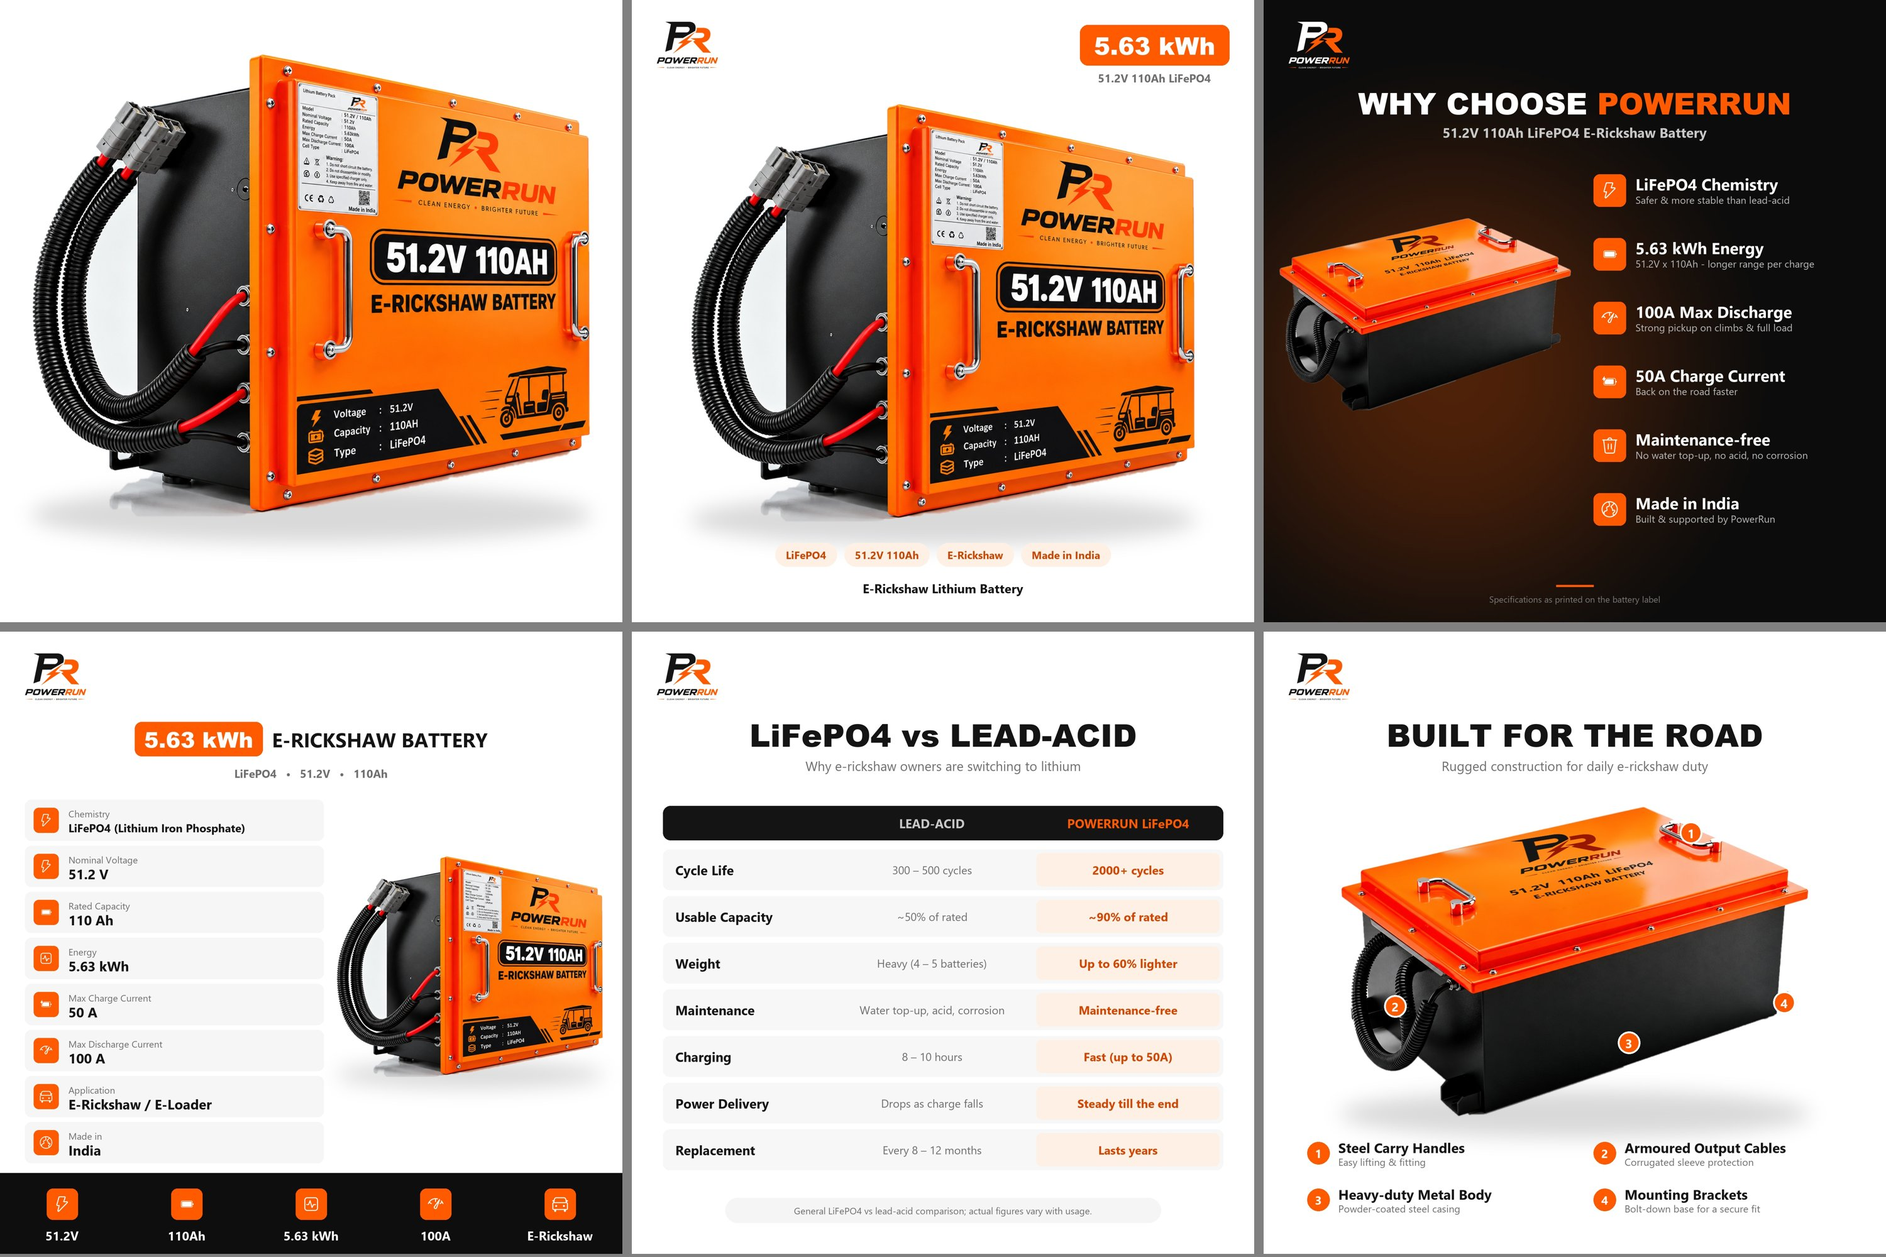
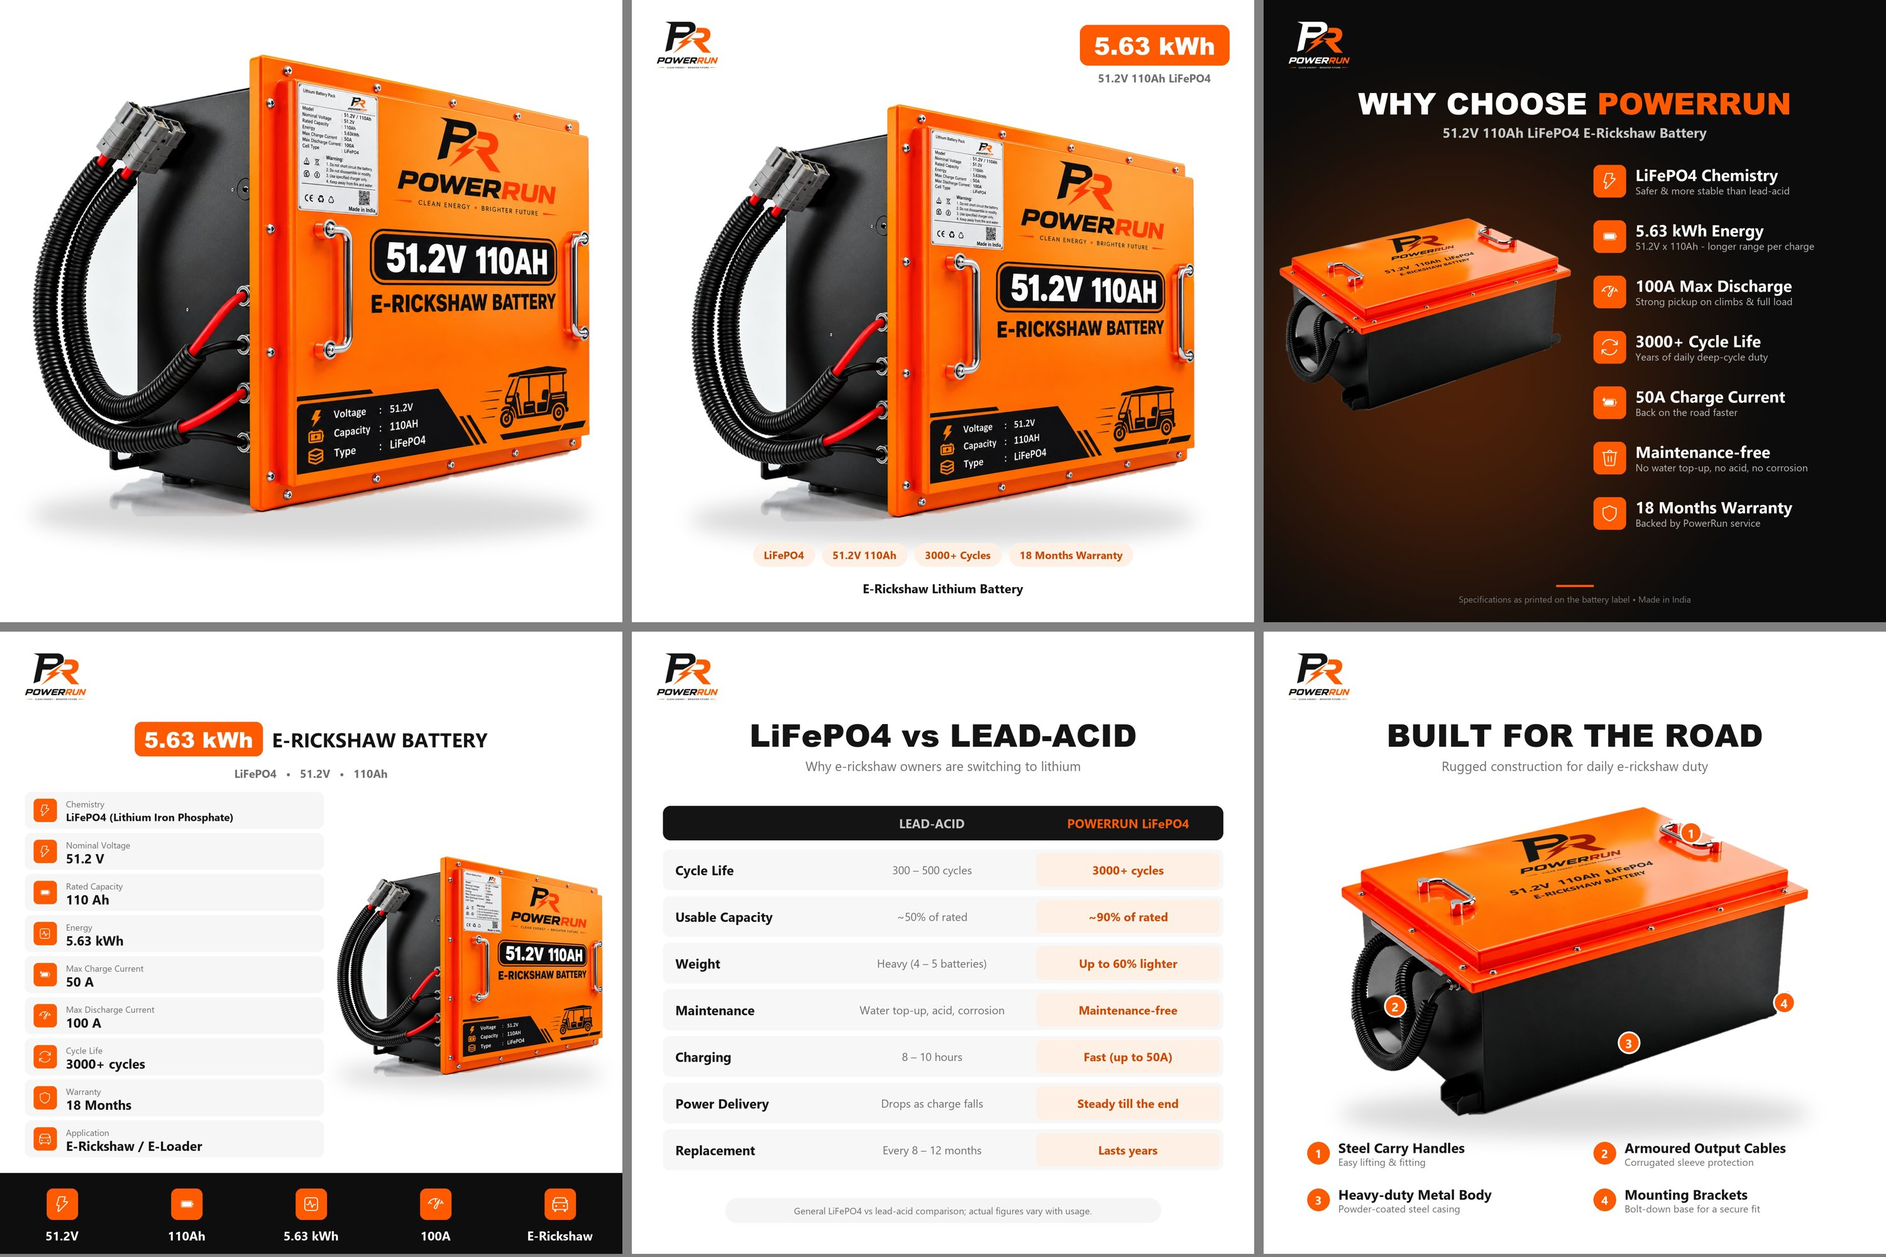
Put the e-rickshaw listing images on PR-023 (now 51.2V 110Ah)
PR-023 is renamed to 51.2V 110Ah / 5.63kWh in Supabase to match the pack's
label, its placeholder photo is replaced by the five listing images, and the
images now carry the site's own 3000+ cycle and 18-month warranty claims.
Static product page, sitemap and merchant feed rebuilt from live data (the
feed also picks up earlier description and price edits it had missed).

Changed region(s): [[0.837, 0.124, 0.961, 0.434], [0.0, 0.62, 0.124, 0.93], [0.403, 0.434, 0.589, 0.465]]

diff --git a/products/pr-e-rickshaw-battery-51-2v-100ah/index.html b/products/pr-e-rickshaw-battery-51-2v-100ah/index.html
@@ -4,25 +4,25 @@
 <meta charset="utf-8">
 <meta name="viewport" content="width=device-width,initial-scale=1">
 <!-- SEO:START -->
-<title>PowerRun 51.2V 100Ah LiFePO4 E-Rickshaw Battery | 5.12kWh Lithium Battery with Integrated BMS &amp; Charge Balancing | E-Rickshaw &amp; E-Loader Power Pack</title>
-<meta name="description" content="Buy PR E-Rickshaw Battery 51.2V 100Ah from PowerRun Industries. Deep-cycle lithium battery pack engineered for daily e-rickshaw duty. 18 Months Warranty. Pan-India delivery.">
+<title>PowerRun 51.2V 110Ah LiFePO4 E-Rickshaw Battery | 5.63kWh Lithium Battery with Integrated BMS &amp; Charge Balancing | E-Rickshaw &amp; E-Loader Power Pack</title>
+<meta name="description" content="Buy PR E-Rickshaw Battery 51.2V 110Ah from PowerRun Industries. Deep-cycle lithium battery pack engineered for daily e-rickshaw duty. 18 Months Warranty. Pan-India delivery.">
 <meta name="keywords" content="51.2v e rickshaw battery">
 <meta name="robots" content="index,follow,max-image-preview:large">
 <link rel="canonical" href="https://powerrun.in/products/pr-e-rickshaw-battery-51-2v-100ah/">
 <meta property="og:type" content="product">
 <meta property="og:locale" content="en_IN">
 <meta property="og:site_name" content="PowerRun Industries">
-<meta property="og:title" content="PowerRun 51.2V 100Ah LiFePO4 E-Rickshaw Battery | 5.12kWh Lithium Battery with Integrated BMS &amp; Charge Balancing | E-Rickshaw &amp; E-Loader Power Pack">
-<meta property="og:description" content="Buy PR E-Rickshaw Battery 51.2V 100Ah from PowerRun Industries. Deep-cycle lithium battery pack engineered for daily e-rickshaw duty. 18 Months Warranty. Pan-India delivery.">
+<meta property="og:title" content="PowerRun 51.2V 110Ah LiFePO4 E-Rickshaw Battery | 5.63kWh Lithium Battery with Integrated BMS &amp; Charge Balancing | E-Rickshaw &amp; E-Loader Power Pack">
+<meta property="og:description" content="Buy PR E-Rickshaw Battery 51.2V 110Ah from PowerRun Industries. Deep-cycle lithium battery pack engineered for daily e-rickshaw duty. 18 Months Warranty. Pan-India delivery.">
 <meta property="og:url" content="https://powerrun.in/products/pr-e-rickshaw-battery-51-2v-100ah/">
-<meta property="og:image" content="https://nnkopxkyxcmtiunftlgr.supabase.co/storage/v1/object/public/product-images/c5ddb927-9d57-456d-8c55-672d600cf3ac/1790411582201-0-placeholder.jpg">
+<meta property="og:image" content="https://nnkopxkyxcmtiunftlgr.supabase.co/storage/v1/object/public/product-images/c5ddb927-9d57-456d-8c55-672d600cf3ac/1790944489064-0-1-main.jpg">
 <meta name="twitter:card" content="summary_large_image">
-<meta name="twitter:title" content="PowerRun 51.2V 100Ah LiFePO4 E-Rickshaw Battery | 5.12kWh Lithium Battery with Integrated BMS &amp; Charge Balancing | E-Rickshaw &amp; E-Loader Power Pack">
-<meta name="twitter:description" content="Buy PR E-Rickshaw Battery 51.2V 100Ah from PowerRun Industries. Deep-cycle lithium battery pack engineered for daily e-rickshaw duty. 18 Months Warranty. Pan-India delivery.">
-<meta name="twitter:image" content="https://nnkopxkyxcmtiunftlgr.supabase.co/storage/v1/object/public/product-images/c5ddb927-9d57-456d-8c55-672d600cf3ac/1790411582201-0-placeholder.jpg">
+<meta name="twitter:title" content="PowerRun 51.2V 110Ah LiFePO4 E-Rickshaw Battery | 5.63kWh Lithium Battery with Integrated BMS &amp; Charge Balancing | E-Rickshaw &amp; E-Loader Power Pack">
+<meta name="twitter:description" content="Buy PR E-Rickshaw Battery 51.2V 110Ah from PowerRun Industries. Deep-cycle lithium battery pack engineered for daily e-rickshaw duty. 18 Months Warranty. Pan-India delivery.">
+<meta name="twitter:image" content="https://nnkopxkyxcmtiunftlgr.supabase.co/storage/v1/object/public/product-images/c5ddb927-9d57-456d-8c55-672d600cf3ac/1790944489064-0-1-main.jpg">
 <script type="application/ld+json" id="ld-organization">{"@context":"https://schema.org","@type":"Organization","@id":"https://powerrun.in/#organization","name":"PowerRun Industries","url":"https://powerrun.in/","logo":"https://powerrun.in/assets/powerrun-logo.png","email":"service@powerrun.in","telephone":"+91 87003 07676","areaServed":"IN","sameAs":["https://www.youtube.com/@PowerRunIndustries"]}</script>
-<script type="application/ld+json" id="ld-product">{"@context":"https://schema.org","@type":"Product","name":"PR E-Rickshaw Battery 51.2V 100Ah","sku":"PR-023","brand":{"@type":"Brand","name":"PowerRun Industries"},"url":"https://powerrun.in/products/pr-e-rickshaw-battery-51-2v-100ah/","description":"Buy PR E-Rickshaw Battery 51.2V 100Ah from PowerRun Industries. Deep-cycle lithium battery pack engineered for daily e-rickshaw duty. 18 Months Warranty. Pan-India delivery.","image":["https://nnkopxkyxcmtiunftlgr.supabase.co/storage/v1/object/public/product-images/c5ddb927-9d57-456d-8c55-672d600cf3ac/1790411582201-0-placeholder.jpg"],"offers":{"@type":"Offer","priceCurrency":"INR","price":"69499.0","itemCondition":"https://schema.org/NewCondition","url":"https://powerrun.in/products/pr-e-rickshaw-battery-51-2v-100ah/","availability":"https://schema.org/InStock","seller":{"@type":"Organization","name":"PowerRun Industries"},"hasMerchantReturnPolicy":{"@type":"MerchantReturnPolicy","applicableCountry":"IN","returnPolicyCategory":"https://schema.org/MerchantReturnFiniteReturnWindow","merchantReturnDays":7,"returnFees":"https://schema.org/FreeReturn","returnMethod":"https://schema.org/ReturnByMail","merchantReturnLink":"https://powerrun.in/refund-policy/"},"shippingDetails":{"@type":"OfferShippingDetails","shippingRate":{"@type":"MonetaryAmount","value":"0","currency":"INR"},"shippingDestination":{"@type":"DefinedRegion","addressCountry":"IN"},"deliveryTime":{"@type":"ShippingDeliveryTime","handlingTime":{"@type":"QuantitativeValue","minValue":1,"maxValue":2,"unitCode":"DAY"},"transitTime":{"@type":"QuantitativeValue","minValue":3,"maxValue":7,"unitCode":"DAY"}}}}}</script>
-<script type="application/ld+json" id="ld-breadcrumb">{"@context":"https://schema.org","@type":"BreadcrumbList","itemListElement":[{"@type":"ListItem","position":1,"name":"Home","item":"https://powerrun.in/"},{"@type":"ListItem","position":2,"name":"Products","item":"https://powerrun.in/products/"},{"@type":"ListItem","position":3,"name":"E-Rickshaw Batteries","item":"https://powerrun.in/products/?category=e-rickshaw-batteries"},{"@type":"ListItem","position":4,"name":"PR E-Rickshaw Battery 51.2V 100Ah","item":"https://powerrun.in/products/pr-e-rickshaw-battery-51-2v-100ah/"}]}</script>
+<script type="application/ld+json" id="ld-product">{"@context":"https://schema.org","@type":"Product","name":"PR E-Rickshaw Battery 51.2V 110Ah","sku":"PR-023","brand":{"@type":"Brand","name":"PowerRun Industries"},"url":"https://powerrun.in/products/pr-e-rickshaw-battery-51-2v-100ah/","description":"Buy PR E-Rickshaw Battery 51.2V 110Ah from PowerRun Industries. Deep-cycle lithium battery pack engineered for daily e-rickshaw duty. 18 Months Warranty. Pan-India delivery.","image":["https://nnkopxkyxcmtiunftlgr.supabase.co/storage/v1/object/public/product-images/c5ddb927-9d57-456d-8c55-672d600cf3ac/1790944489064-0-1-main.jpg","https://nnkopxkyxcmtiunftlgr.supabase.co/storage/v1/object/public/product-images/c5ddb927-9d57-456d-8c55-672d600cf3ac/1790944489064-1-2-why-powerrun.jpg","https://nnkopxkyxcmtiunftlgr.supabase.co/storage/v1/object/public/product-images/c5ddb927-9d57-456d-8c55-672d600cf3ac/1790944489064-2-3-specifications.jpg","https://nnkopxkyxcmtiunftlgr.supabase.co/storage/v1/object/public/product-images/c5ddb927-9d57-456d-8c55-672d600cf3ac/1790944489064-3-4-why-lithium.jpg","https://nnkopxkyxcmtiunftlgr.supabase.co/storage/v1/object/public/product-images/c5ddb927-9d57-456d-8c55-672d600cf3ac/1790944489064-4-5-build.jpg"],"offers":{"@type":"Offer","priceCurrency":"INR","price":"69499.0","itemCondition":"https://schema.org/NewCondition","url":"https://powerrun.in/products/pr-e-rickshaw-battery-51-2v-100ah/","availability":"https://schema.org/InStock","seller":{"@type":"Organization","name":"PowerRun Industries"},"hasMerchantReturnPolicy":{"@type":"MerchantReturnPolicy","applicableCountry":"IN","returnPolicyCategory":"https://schema.org/MerchantReturnFiniteReturnWindow","merchantReturnDays":7,"returnFees":"https://schema.org/FreeReturn","returnMethod":"https://schema.org/ReturnByMail","merchantReturnLink":"https://powerrun.in/refund-policy/"},"shippingDetails":{"@type":"OfferShippingDetails","shippingRate":{"@type":"MonetaryAmount","value":"0","currency":"INR"},"shippingDestination":{"@type":"DefinedRegion","addressCountry":"IN"},"deliveryTime":{"@type":"ShippingDeliveryTime","handlingTime":{"@type":"QuantitativeValue","minValue":1,"maxValue":2,"unitCode":"DAY"},"transitTime":{"@type":"QuantitativeValue","minValue":3,"maxValue":7,"unitCode":"DAY"}}}}}</script>
+<script type="application/ld+json" id="ld-breadcrumb">{"@context":"https://schema.org","@type":"BreadcrumbList","itemListElement":[{"@type":"ListItem","position":1,"name":"Home","item":"https://powerrun.in/"},{"@type":"ListItem","position":2,"name":"Products","item":"https://powerrun.in/products/"},{"@type":"ListItem","position":3,"name":"E-Rickshaw Batteries","item":"https://powerrun.in/products/?category=e-rickshaw-batteries"},{"@type":"ListItem","position":4,"name":"PR E-Rickshaw Battery 51.2V 110Ah","item":"https://powerrun.in/products/pr-e-rickshaw-battery-51-2v-100ah/"}]}</script>
 <!-- SEO:END -->
 <meta name="theme-color" content="#ff5a00">
 <link rel="icon" href="/assets/powerrun-logo.png">
@@ -35,21 +35,25 @@
 <main id="main">
     <section class="section" id="productSection">
       <div id="productContent">
-        <nav class="breadcrumb" aria-label="Breadcrumb"><a href="/">Home</a> / <a href="/products/">Products</a> / <a href="/products/?category=e-rickshaw-batteries">E-Rickshaw Batteries</a> / <span aria-current="page">PR E-Rickshaw Battery 51.2V 100Ah</span></nav>
+        <nav class="breadcrumb" aria-label="Breadcrumb"><a href="/">Home</a> / <a href="/products/">Products</a> / <a href="/products/?category=e-rickshaw-batteries">E-Rickshaw Batteries</a> / <span aria-current="page">PR E-Rickshaw Battery 51.2V 110Ah</span></nav>
         <div class="product-detail-view">
         <div class="product-gallery-main"><div class="gallery-stage"><div class="gallery-track">
-        <div class="gallery-slide"><img src="https://nnkopxkyxcmtiunftlgr.supabase.co/storage/v1/object/public/product-images/c5ddb927-9d57-456d-8c55-672d600cf3ac/1790411582201-0-placeholder.jpg" alt="PowerRun PR E-Rickshaw Battery 51.2V 100Ah product photo" width="700" height="560"></div>
+        <div class="gallery-slide"><img src="https://nnkopxkyxcmtiunftlgr.supabase.co/storage/v1/object/public/product-images/c5ddb927-9d57-456d-8c55-672d600cf3ac/1790944489064-0-1-main.jpg" alt="PowerRun PR E-Rickshaw Battery 51.2V 110Ah product photo" width="700" height="560"></div>
+        <div class="gallery-slide"><img src="https://nnkopxkyxcmtiunftlgr.supabase.co/storage/v1/object/public/product-images/c5ddb927-9d57-456d-8c55-672d600cf3ac/1790944489064-1-2-why-powerrun.jpg" alt="PowerRun PR E-Rickshaw Battery 51.2V 110Ah product photo - image 2" loading="lazy" width="700" height="560"></div>
+        <div class="gallery-slide"><img src="https://nnkopxkyxcmtiunftlgr.supabase.co/storage/v1/object/public/product-images/c5ddb927-9d57-456d-8c55-672d600cf3ac/1790944489064-2-3-specifications.jpg" alt="PowerRun PR E-Rickshaw Battery 51.2V 110Ah product photo - image 3" loading="lazy" width="700" height="560"></div>
+        <div class="gallery-slide"><img src="https://nnkopxkyxcmtiunftlgr.supabase.co/storage/v1/object/public/product-images/c5ddb927-9d57-456d-8c55-672d600cf3ac/1790944489064-3-4-why-lithium.jpg" alt="PowerRun PR E-Rickshaw Battery 51.2V 110Ah product photo - image 4" loading="lazy" width="700" height="560"></div>
+        <div class="gallery-slide"><img src="https://nnkopxkyxcmtiunftlgr.supabase.co/storage/v1/object/public/product-images/c5ddb927-9d57-456d-8c55-672d600cf3ac/1790944489064-4-5-build.jpg" alt="PowerRun PR E-Rickshaw Battery 51.2V 110Ah product photo - image 5" loading="lazy" width="700" height="560"></div>
         </div></div></div>
         <div class="product-info">
         <span class="detail-badge">E-RICKSHAW BATTERIES</span>
-        <h1>PR E-Rickshaw Battery 51.2V 100Ah</h1>
+        <h1>PR E-Rickshaw Battery 51.2V 110Ah</h1>
         <div class="sku">SKU: PR-023</div>
-        <p class="prose" style="margin:12px 0 0">5.12kWh LiFePO4 e-rickshaw battery engineered for daily deep-cycle duty.</p>
+        <p class="prose" style="margin:12px 0 0">5.63kWh LiFePO4 e-rickshaw battery engineered for daily deep-cycle duty.</p>
         <div class="price-row"><span class="price-now">₹69,499</span><span class="price-mrp">₹1,01,650</span><span class="discount-badge">-32%</span></div>
         <p class="small-note" style="margin-top:14px">18 Months Warranty</p>
-        <div class="spec-table-wrap"><b>Specifications</b><table class="spec-table"><tbody><tr><td>Chemistry</td><td>LiFePO4</td></tr><tr><td>Nominal Voltage</td><td>51.2 V</td></tr><tr><td>Capacity</td><td>100 Ah</td></tr><tr><td>Energy</td><td>5.12 kWh</td></tr><tr><td>Cycle Life</td><td>3000+ cycles</td></tr><tr><td>Application</td><td>E-Rickshaw / E-Loader</td></tr><tr><td>BMS</td><td>Integrated with charge balancing</td></tr></tbody></table></div>
+        <div class="spec-table-wrap"><b>Specifications</b><table class="spec-table"><tbody><tr><td>Chemistry</td><td>LiFePO4</td></tr><tr><td>Nominal Voltage</td><td>51.2 V</td></tr><tr><td>Capacity</td><td>110 Ah</td></tr><tr><td>Energy</td><td>5.63 kWh</td></tr><tr><td>Max Charge Current</td><td>50 A</td></tr><tr><td>Max Discharge Current</td><td>100 A</td></tr><tr><td>Cycle Life</td><td>3000+ cycles</td></tr><tr><td>Application</td><td>E-Rickshaw / E-Loader</td></tr><tr><td>BMS</td><td>Integrated with charge balancing</td></tr></tbody></table></div>
         <div class="spec-table-wrap"><b>Key Features</b><ul class="feature-list"><li>Designed for daily deep cycling</li><li>Vibration-resistant enclosure</li><li>Fast charge capable</li><li>Integrated BMS protection</li><li>Maintenance free</li></ul></div>
-        <div class="spec-table-wrap"><b>Product Description</b><p class="prose">The PowerRun 51.2V 100Ah LiFePO4 E-Rickshaw Battery provides 5.12kWh of usable energy with an integrated BMS and charge balancing, engineered for the daily deep-cycling duty of e-rickshaws and e-loaders. With 3000+ cycle life, fast charging and a maintenance-free lithium design, it is a durable upgrade over conventional lead-acid packs.</p></div>
+        <div class="spec-table-wrap"><b>Product Description</b><p class="prose">The PowerRun 51.2V 110Ah LiFePO4 E-Rickshaw Battery provides 5.63kWh of usable energy with an integrated BMS and charge balancing, engineered for the daily deep-cycling duty of e-rickshaws and e-loaders. With 3000+ cycle life, fast charging and a maintenance-free lithium design, it is a durable upgrade over conventional lead-acid packs.</p></div>
         <div class="internal-links"><b>Explore more</b><div class="link-chips"><a href="/products/?category=e-rickshaw-batteries">All E-Rickshaw Batteries</a><a href="/products/">All products</a><a href="/warranty/">Warranty registration</a><a href="/service/">Service request</a></div></div>
         </div></div>
       </div>

diff --git a/scripts/listing_erickshaw.py b/scripts/listing_erickshaw.py
@@ -34,7 +34,8 @@ GREY = (110, 110, 110)
 WHITE = (255, 255, 255)
 S = 2000
 
-# Every figure below is printed on the pack's own label - nothing invented.
+# Electrical figures are printed on the pack's own label; cycle life and
+# warranty are the ones the website lists for PR-023.
 SPECS = [
     ("Chemistry", "LiFePO4 (Lithium Iron Phosphate)", "\ue945"),
     ("Nominal Voltage", "51.2 V", "\ue945"),
@@ -42,8 +43,9 @@ SPECS = [
     ("Energy", "5.63 kWh", "\ue9d9"),
     ("Max Charge Current", "50 A", "\ue83e"),
     ("Max Discharge Current", "100 A", "\uec4a"),
+    ("Cycle Life", "3000+ cycles", "\ue895"),
+    ("Warranty", "18 Months", "\uea18"),
     ("Application", "E-Rickshaw / E-Loader", "\ue804"),
-    ("Made in", "India", "\ue909"),
 ]
 
 
@@ -258,7 +260,7 @@ def main_badged(front):
     d.text((S - 80 - w / 2, 145), t, font=f, fill=WHITE, anchor="mm")
     d.text((S - 80 - w / 2, 250), "51.2V 110Ah LiFePO4", font=bold(36), fill=GREY, anchor="mm")
     place(img, front, S // 2, 330, 1720, 1350)
-    chips_centred(d, 1745, ["LiFePO4", "51.2V 110Ah", "E-Rickshaw", "Made in India"])
+    chips_centred(d, 1745, ["LiFePO4", "51.2V 110Ah", "3000+ Cycles", "18 Months Warranty"])
     d.text((S // 2, 1890), "E-Rickshaw Lithium Battery", font=bold(40), fill=INK, anchor="mm")
     return img
 
@@ -282,18 +284,19 @@ def why_powerrun(top):
         ("\ue945", "LiFePO4 Chemistry", "Safer & more stable than lead-acid"),
         ("\ue83f", "5.63 kWh Energy", "51.2V x 110Ah - longer range per charge"),
         ("\uec4a", "100A Max Discharge", "Strong pickup on climbs & full load"),
+        ("\ue895", "3000+ Cycle Life", "Years of daily deep-cycle duty"),
         ("\ue83e", "50A Charge Current", "Back on the road faster"),
         ("\ue74d", "Maintenance-free", "No water top-up, no acid, no corrosion"),
-        ("\ue909", "Made in India", "Built & supported by PowerRun"),
+        ("\uea18", "18 Months Warranty", "Backed by PowerRun service"),
     ]
-    y = 560
+    y = 530
     for g, title, sub in feats:
         icon_tile(d, 1060, y, g, 104)
         d.text((1195, y + 30), title, font=bold(52), fill=WHITE, anchor="lm")
         d.text((1195, y + 82), sub, font=regular(32), fill=(185, 185, 185), anchor="lm")
-        y += 205
+        y += 178
     d.rectangle([S // 2 - 60, 1880, S // 2 + 60, 1886], fill=ORANGE)
-    d.text((S // 2, 1925), "Specifications as printed on the battery label",
+    d.text((S // 2, 1925), "Specifications as printed on the battery label • Made in India",
            font=regular(28), fill=(120, 120, 120), anchor="mm")
     return img
 
@@ -313,13 +316,13 @@ def specifications(front):
     d.text((S // 2, 455), "LiFePO4   \u2022   51.2V   \u2022   110Ah", font=bold(36),
            fill=GREY, anchor="mm")
 
-    y = 540
+    y = 515
     for label, value, g in SPECS:
-        d.rounded_rectangle([80, y, 1040, y + 132], radius=20, fill=(246, 246, 246))
-        icon_tile(d, 108, y + 26, g, 80)
-        d.text((220, y + 44), label, font=regular(30), fill=GREY, anchor="lm")
-        d.text((220, y + 90), value, font=bold(44 if len(value) < 24 else 36), fill=INK, anchor="lm")
-        y += 148
+        d.rounded_rectangle([80, y, 1040, y + 118], radius=20, fill=(246, 246, 246))
+        icon_tile(d, 108, y + 22, g, 74)
+        d.text((212, y + 38), label, font=regular(28), fill=GREY, anchor="lm")
+        d.text((212, y + 80), value, font=bold(42 if len(value) < 24 else 34), fill=INK, anchor="lm")
+        y += 132
 
     place(img, front, 1510, 720, 860, 900)
 
@@ -344,7 +347,7 @@ def why_lithium():
            font=regular(42), fill=GREY, anchor="mm")
 
     rows = [
-        ("Cycle Life", "300 \u2013 500 cycles", "2000+ cycles"),
+        ("Cycle Life", "300 \u2013 500 cycles", "3000+ cycles"),
         ("Usable Capacity", "~50% of rated", "~90% of rated"),
         ("Weight", "Heavy (4 \u2013 5 batteries)", "Up to 60% lighter"),
         ("Maintenance", "Water top-up, acid, corrosion", "Maintenance-free"),
